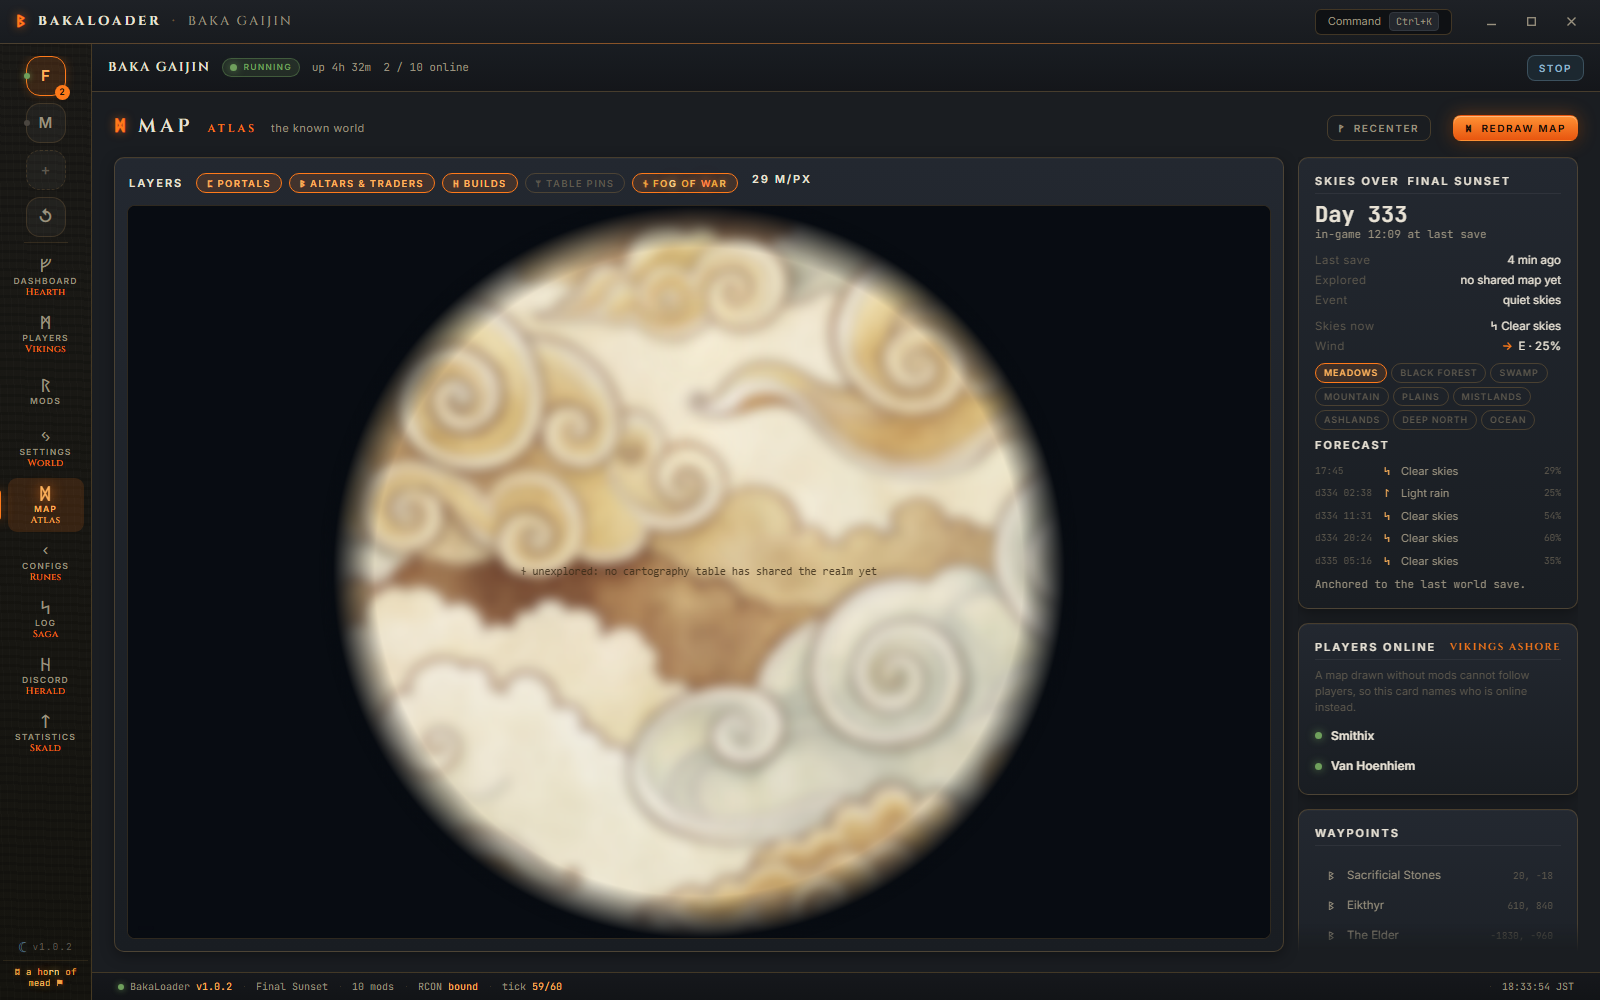
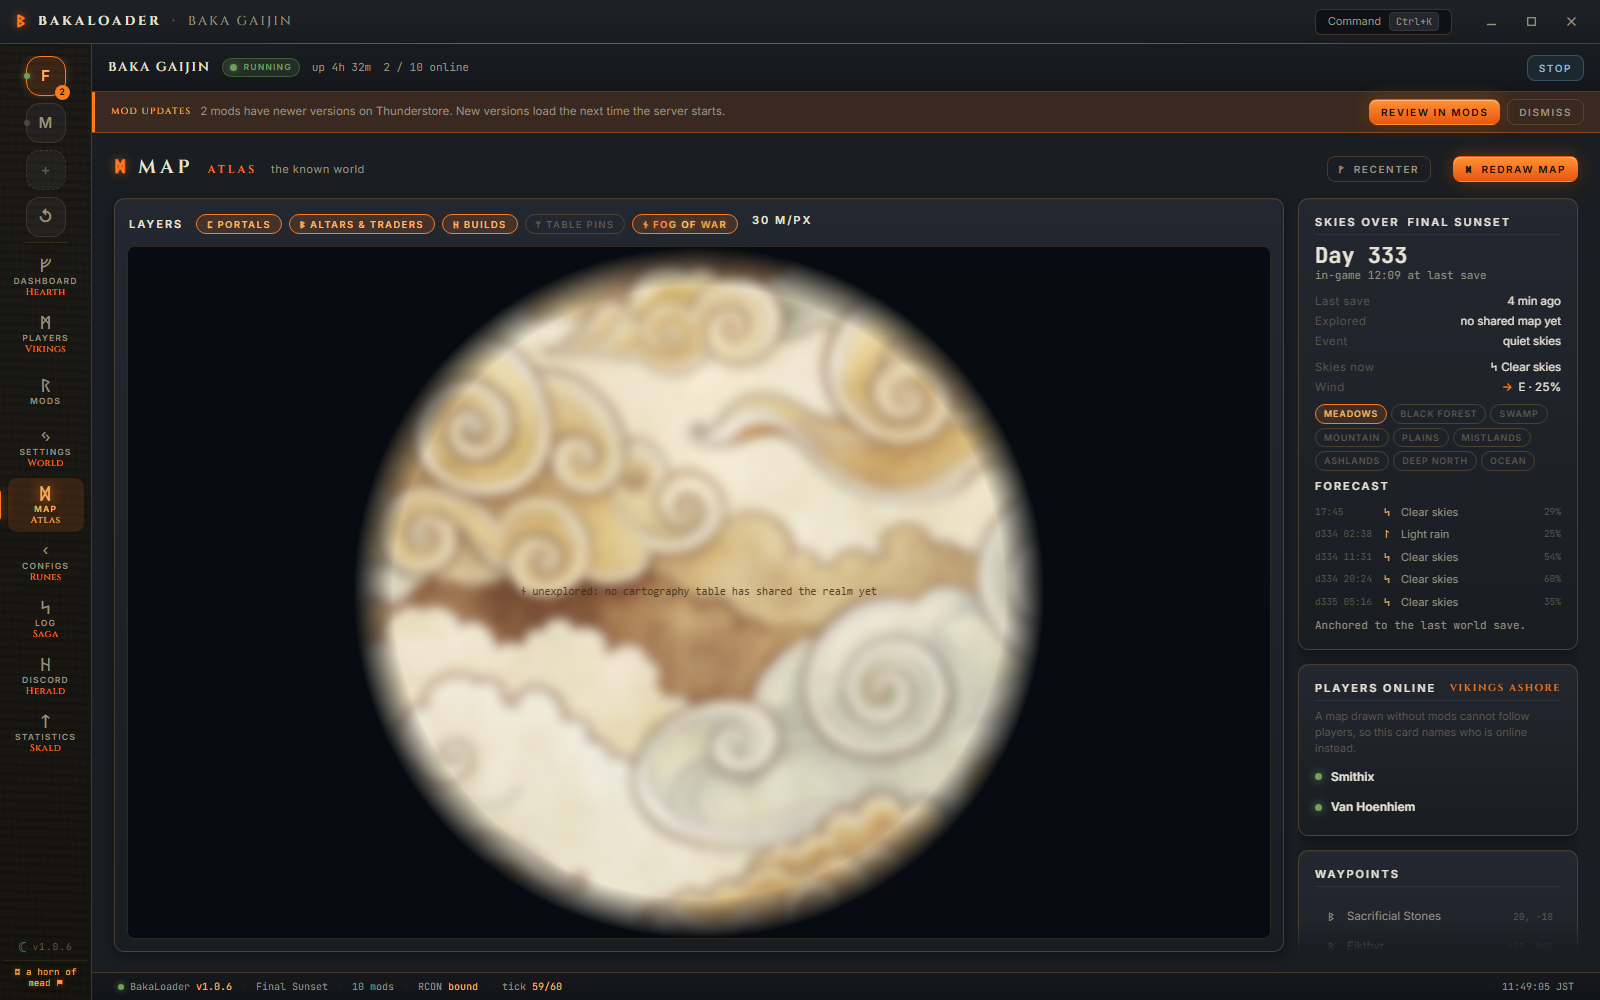
Docs: 1.0.6, world modifiers explained on every dial, patcher-aware mod removal, refreshed screenshots

diff --git a/README.md b/README.md
@@ -27,6 +27,14 @@
 
 ---
 
+## What is new in 1.0.6
+
+**World modifiers, explained where you set them.** Every dial on the Settings screen now shows a one line explanation of the option you picked, and a **?** marker opens a panel listing every option with what it does and the game settings it applies. The same explanations appear in the "Found a new realm" dialog. Labels say what an option really means: Death penalty **Hard** deletes everything you were not wearing, since only equipped gear reaches your tombstone, and raises skill loss to 1.5 times normal, while **Hardcore** deletes every item and resets all your skills but does not delete your character. "Permadeath" was the wrong word for that and is gone. BakaLoader also clears the world's difficulty keys at every start and writes your settings back, so turning a setting down really turns it down. Before this, moving Death penalty from Hard back to Normal left the key that deletes unequipped items sitting in the world, and players kept losing their inventory on a world whose dial read Normal. Boss and progression keys are left alone, and a difficulty change made with the in-game console no longer survives a restart, so make it in the app. See [World modifiers](https://github.com/RyanDMcAfee/ValheimBakaLoader/wiki/World-modifiers).
+
+**Mods.** Removing a mod now removes its BepInEx patchers folder as well, so a patcher-type mod such as StartupAccelerator actually goes away instead of staying loaded. Patcher mods are listed on the [Mods](https://github.com/RyanDMcAfee/ValheimBakaLoader/wiki/Mods) screen with a "patcher" tag and can be removed there. HookGenPatcher and the BepInEx pack are protected, so they are never listed and never removed. If you run more than one server, the patchers folder is shared between them, so removing a patcher removes it for all of them.
+
+1.0.5 was never released on its own, so it is folded into this one. Full list on the [release notes](https://github.com/RyanDMcAfee/ValheimBakaLoader/wiki/Release-notes).
+
 ## What is new in 1.0.3
 
 **Mods screen.** Updating all mods now shows a progress bar and a per-mod status instead of one spinner, and you can right-click a single mod to update just it. A new "Possibly outdated" column flags a mod when its newest Thunderstore version came out before Valheim was last updated, as a hint, not proof. Removing a mod now lists the installed mods that depend on it and offers to remove them too, off by default. Full list on the [release notes](https://github.com/RyanDMcAfee/ValheimBakaLoader/wiki/Release-notes).
@@ -80,7 +88,7 @@ The app is split into nine screens. Each has a plain name, with its Norse name s
 | [**Dashboard**](https://github.com/RyanDMcAfee/ValheimBakaLoader/wiki/Dashboard-%28Hearth%29) (Hearth) | Server status, who is online, next save, network addresses, CPU and RAM, a tail of the log, and the app's own settings. |
 | [**Players**](https://github.com/RyanDMcAfee/ValheimBakaLoader/wiki/Players-%28Vikings%29) (Vikings) | A sortable table with platform, session time, total playtime, last seen, deaths and position. Right-click for promote, allow, kick, ban, heal, teleport or spawn items nearby. |
 | [**Mods**](https://github.com/RyanDMcAfee/ValheimBakaLoader/wiki/Mods) | Scans your BepInEx folder against Thunderstore. Update one, update all, or paste a Thunderstore link to install. |
-| [**Settings**](https://github.com/RyanDMcAfee/ValheimBakaLoader/wiki/Settings-%28World%29) (World) | Server name, password, port, world and seed, crossplay, backups, world modifiers, restart rules, RCON and folders. |
+| [**Settings**](https://github.com/RyanDMcAfee/ValheimBakaLoader/wiki/Settings-%28World%29) (World) | Server name, password, port, world and seed, crossplay, backups, world modifiers with every option explained beside the dial, restart rules, RCON and folders. |
 | [**Map**](https://github.com/RyanDMcAfee/ValheimBakaLoader/wiki/Map-%28Atlas%29) (Atlas) | Your world drawn from its seed with no map mods, fog of war from what players have shared at cartography tables, portals and builds as layers, and a weather forecast. |
 | [**Configs**](https://github.com/RyanDMcAfee/ValheimBakaLoader/wiki/Configs-%28Runes%29) (Runes) | Edit your mods' config files in the app. |
 | [**Log**](https://github.com/RyanDMcAfee/ValheimBakaLoader/wiki/Log-%28Saga%29) (Saga) | The live server log with levels, search, pause on scroll, and a console line. |
